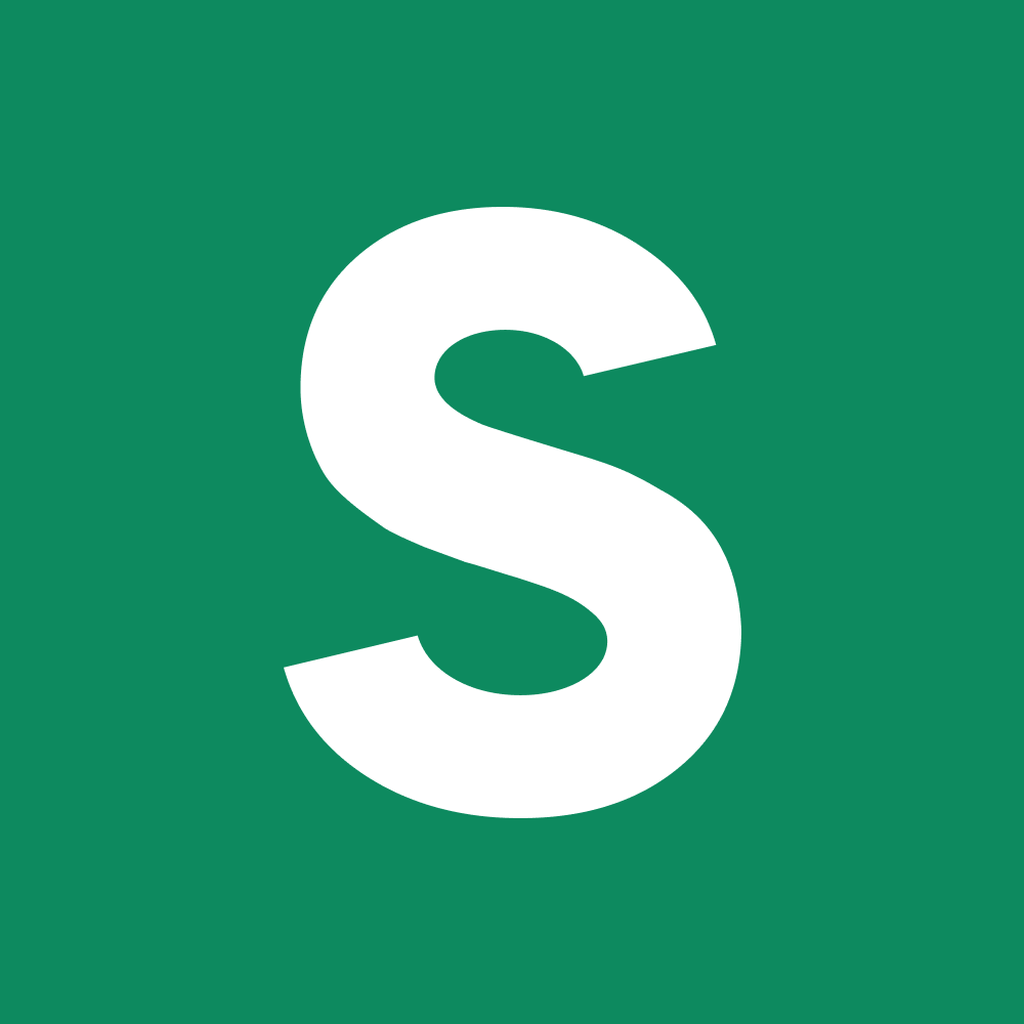
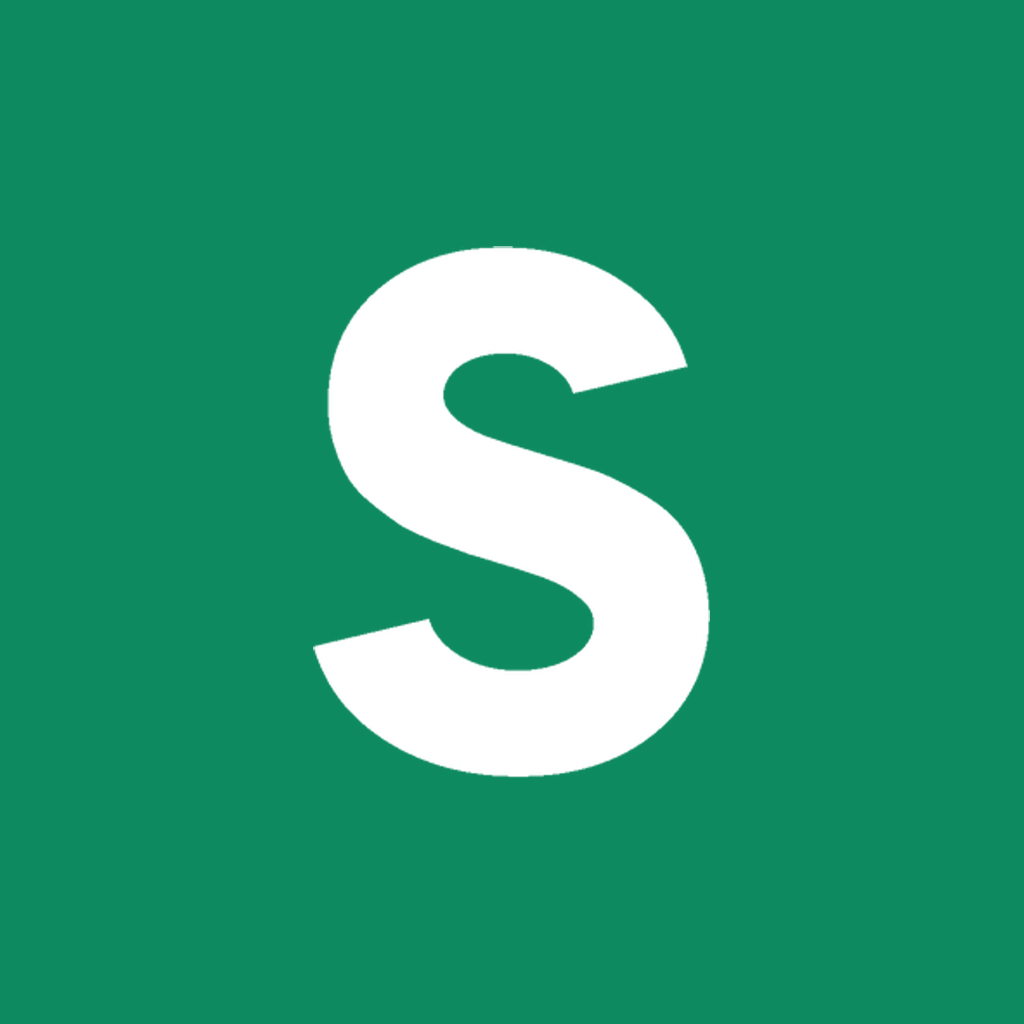
Mobile: a launch screen that says StayOnMap, not a blank white one
The splash was a blank near-white screen, and the wordmark that was
supposed to be on it rendered as a clipped strip below the first screen.
Both fixed; the whole launch is now one brand green.

Two bugs, found by capturing a cold start frame by frame on an emulator:

- The native splash paired brand-50 (#edfaf7 — 97% luminance, which is
  white on a phone) with a 100%-transparent image, so the longest part of
  a cold start was branded by nothing at all. It is brand-600 now.
- BrandSplash relied on StyleSheet.absoluteFillObject alone and, under
  Fabric, laid itself out in normal flow as a sibling of the navigator:
  the wordmark appeared as a strip clipped by the bottom edge, BELOW Get
  started, after Get started was already up. It now sets explicit
  useWindowDimensions() width/height as well.

The splash image stays transparent on purpose — Android 12+ masks it into
a circle, which would clip the wordmark — and omitting `image` is not the
same thing, since Android then falls back to the launcher icon.

Three surfaces are now the same brand-600 and must stay in sync:
app.config.js's splash backgroundColor, BrandSplash's root, and
GetStartedScreen's container. Any drift is a flash on every cold start.

Also:

- Logo gains `onDark` (Stay white, OnMap brand-100). Two tones, inverted,
  still text only — slate-800 on green is unreadable, and one flat white
  would collapse the wordmark into a single word.
[…]

Changed region(s): [[0.2812, 0.4375, 0.75, 0.8125], [0.2812, 0.1875, 0.7188, 0.5938], [0.4375, 0.4062, 0.5312, 0.4375]]

diff --git a/mobile/src/components/common/BrandSplash.js b/mobile/src/components/common/BrandSplash.js
@@ -1,0 +1,90 @@
+import { useEffect, useRef } from 'react'
+import { Animated, Easing, StyleSheet, useWindowDimensions } from 'react-native'
+import Logo from '@components/common/Logo'
+import { colors } from '@theme/colors'
+import { fontSizes } from '@theme/typography'
+
+// THE launch screen — wordmark only, no mark, per `.claude/ui-ux.md`'s
+// "StayOnMap Logo — Mandatory Rule".
+//
+// The user sees one continuous green launch. Technically there are three
+// surfaces and all of them are brand-600: expo-splash-screen paints it before
+// JS exists (with a deliberately transparent image — it cannot render text,
+// and Android 12+ would circle-clip a baked-in wordmark, see app.config.js),
+// this overlay paints it and animates the name in, and GetStartedScreen —
+// the screen underneath — is brand-600 too. Nothing white ever appears, and
+// the fade-out reads as the wordmark dissolving into the first real screen
+// rather than as a screen change.
+//
+// The three colours MUST stay in sync: app.config.js's splash
+// `backgroundColor`, `styles.root` below, and GetStartedScreen's container.
+// Any drift shows up as a flash on every cold start — which is exactly how
+// this screen shipped as a blank near-white void once before.
+//
+// Sizing is explicit (`useWindowDimensions`) rather than left to
+// `absoluteFillObject` alone: under Fabric this overlay laid itself out in
+// normal flow as a sibling of the navigator, so the wordmark rendered as a
+// clipped strip BELOW the app instead of over it.
+export default function BrandSplash({ onFinish }) {
+  const { width, height } = useWindowDimensions()
+  const wordmark = useRef(new Animated.Value(0)).current
+  const fade = useRef(new Animated.Value(1)).current
+
+  useEffect(() => {
+    const anim = Animated.sequence([
+      Animated.timing(wordmark, {
+        toValue: 1,
+        duration: 380,
+        easing: Easing.out(Easing.cubic),
+        useNativeDriver: true,
+      }),
+      Animated.delay(520),
+      Animated.timing(fade, {
+        toValue: 0,
+        duration: 320,
+        easing: Easing.in(Easing.quad),
+        useNativeDriver: true,
+      }),
+    ])
+    anim.start(({ finished }) => {
+      if (finished) onFinish?.()
+    })
+    // Unmounting mid-animation (fast refresh, process death) must not leave the
+    // overlay stuck at opacity 0 over a live app.
+    return () => anim.stop()
+  }, [wordmark, fade, onFinish])
+
+  return (
+    <Animated.View
+      style={[styles.root, { width, height, opacity: fade }]}
+      accessibilityRole="image"
+      accessibilityLabel="StayOnMap"
+    >
+      <Animated.View
+        style={{
+          opacity: wordmark,
+          transform: [
+            { translateY: wordmark.interpolate({ inputRange: [0, 1], outputRange: [12, 0] }) },
+          ],
+        }}
+      >
+        <Logo size={fontSizes.displayLarge} onDark />
+      </Animated.View>
+    </Animated.View>
+  )
+}
+
+const styles = StyleSheet.create({
+  root: {
+    position: 'absolute',
+    top: 0,
+    left: 0,
+    // Must match expo-splash-screen's backgroundColor in app.config.js AND
+    // GetStartedScreen's background — see the note above.
+    backgroundColor: colors.brand600,
+    alignItems: 'center',
+    justifyContent: 'center',
+    zIndex: 100,
+    elevation: 100,
+  },
+})

diff --git a/mobile/app.config.js b/mobile/app.config.js
@@ -31,6 +31,11 @@ export default {
       // (android/app/src/debug/AndroidManifest.xml) for the dev overlay, and
       // that variant is merged only into debug.
       blockedPermissions: ['android.permission.SYSTEM_ALERT_WINDOW'],
+      // The foreground S is 46% of the 108dp canvas, giving it a ~57% bounding
+      // diagonal — clear of the 66dp (61%) circle Android guarantees is visible
+      // on every launcher shape. It was 62% tall, i.e. TALLER than that
+      // guaranteed circle, so round-mask launchers cropped the terminals and
+      // the letter filled the badge edge to edge.
       adaptiveIcon: {
         backgroundColor: '#0d8a5f',
         foregroundImage: './assets/android-icon-foreground.png',
@@ -52,13 +57,36 @@ export default {
       [
         'expo-splash-screen',
         {
-          // A square, padded green "S" — NOT the old wide wordmark, which
-          // Android 12+ masks into a circle and clips at the sides. imageWidth
-          // was 500 (wider than the screen); 288 sizes the mark to sit inside
-          // the circular splash with room to spare.
+          // ./assets/splash-icon.png IS INTENTIONALLY 100% TRANSPARENT.
+          // Do not "fix" it by dropping a logo back in.
+          //
+          // There is exactly ONE launch screen and it is the wordmark —
+          // components/common/BrandSplash.js. It has to be JS, because this
+          // plugin can only place an image and Android 12+ masks that image
+          // into a 192dp circle: "StayOnMap" baked in here would be clipped to
+          // "ayOnMa", and shrunk to fit the circle it would be illegible. So
+          // the native splash paints a flat brand colour and nothing else, and
+          // the wordmark animates in the instant JS is up.
+          //
+          // Omitting `image` entirely does NOT give a blank splash — Android 12+
+          // then falls back to the launcher icon, putting the S back on screen.
+          // A transparent drawable is what actually suppresses it. imageWidth is
+          // vestigial with no pixels to size, and kept only so a future logo has
+          // a sane starting value.
+          //
+          // backgroundColor is brand-600, NOT brand-50. brand-50 is #edfaf7 —
+          // 97% luminance, indistinguishable from white on a phone — so with a
+          // transparent image the entire pre-JS launch read as a blank white
+          // screen, which is precisely what a user reported. brand-600 is
+          // unmistakably the brand from the first frame, and it is also
+          // GetStartedScreen's background, so the whole launch is one colour.
+          //
+          // It MUST stay in sync with BrandSplash.js's root background AND
+          // GetStartedScreen's container — three surfaces pretending to be one,
+          // and any drift shows up as a flash on every cold start.
           image: './assets/splash-icon.png',
           imageWidth: 288,
-          backgroundColor: '#edfaf7',
+          backgroundColor: '#0d8a5f',
         },
       ],
       [

diff --git a/mobile/App.js b/mobile/App.js
@@ -1,4 +1,4 @@
-import { useEffect } from 'react'
+import { useCallback, useEffect, useState } from 'react'
 import { AppState } from 'react-native'
 import { GestureHandlerRootView } from 'react-native-gesture-handler'
 import { SafeAreaProvider } from 'react-native-safe-area-context'
@@ -10,12 +10,21 @@ import { useFonts } from 'expo-font'
 import { queryClient } from '@lib/queryClient'
 import { getSocket } from '@lib/socket'
 import { AuthProvider } from '@features/auth/context/AuthContext'
+import BrandSplash from '@components/common/BrandSplash'
 import RootNavigator from '@navigation/RootNavigator'
 import { navigateToReference } from '@navigation/navigationRef'
 
 SplashScreen.preventAutoHideAsync().catch(() => {})
 
 export default function App() {
+  // The branded launch screen (the wordmark, on the same brand green the
+  // native splash just painted) that takes over the instant that splash lets
+  // go. It is an overlay, not a route: the navigator mounts and starts its own
+  // data fetching underneath while it plays, so the brand moment costs nothing
+  // in time-to-interactive.
+  const [brandSplashDone, setBrandSplashDone] = useState(false)
+  const finishBrandSplash = useCallback(() => setBrandSplashDone(true), [])
+
   // require() the 5 weight files directly — importing from the package index
   // made Metro bundle every weight in both families (~27 TTFs, several MB of
   // APK for fonts nothing renders). Keys must match theme/typography.js.
@@ -66,6 +75,9 @@ export default function App() {
           </AuthProvider>
         </QueryClientProvider>
       </SafeAreaProvider>
+      {/* Last child so it paints above the navigator without a Modal — a Modal
+          here would fight the status bar and the hardware back handler. */}
+      {!brandSplashDone && <BrandSplash onFinish={finishBrandSplash} />}
     </GestureHandlerRootView>
   )
 }

diff --git a/mobile/src/components/common/Logo.js b/mobile/src/components/common/Logo.js
@@ -6,10 +6,14 @@ import { fonts, fontSizes } from '@theme/typography'
 // logo rule). "Stay" in the default heading color, "OnMap" in brand color.
 // `floating` adds a soft text shadow for legibility when placed directly
 // over imagery (e.g. the map) instead of a solid background.
-export default function Logo({ size = fontSizes.lg, floating = false }) {
+// `onDark` keeps the two-tone structure on a brand-green surface (the launch
+// screen), where slate800/brand600 would be unreadable: white + brand100 is
+// the same relationship, inverted. It is a colour swap, not an exception to
+// the rule — still text only, still two tones, still no mark.
+export default function Logo({ size = fontSizes.lg, floating = false, onDark = false }) {
   return (
-    <Text style={[styles.text, floating && styles.floating, { fontSize: size }]}>
-      Stay<Text style={styles.accent}>OnMap</Text>
+    <Text style={[styles.text, onDark && styles.onDark, floating && styles.floating, { fontSize: size }]}>
+      Stay<Text style={onDark ? styles.accentOnDark : styles.accent}>OnMap</Text>
     </Text>
   )
 }
@@ -17,5 +21,7 @@ export default function Logo({ size = fontSizes.lg, floating = false }) {
 const styles = StyleSheet.create({
   text: { fontFamily: fonts.displayBold, color: colors.slate800 },
   accent: { color: colors.brand600 },
+  onDark: { color: colors.white },
+  accentOnDark: { color: colors.brand100 },
   floating: { textShadowColor: 'rgba(255,255,255,0.9)', textShadowRadius: 4, textShadowOffset: { width: 0, height: 1 } },
 })

diff --git a/mobile/src/navigation/RootNavigator.js b/mobile/src/navigation/RootNavigator.js
@@ -25,10 +25,15 @@ const linking = {
 export default function RootNavigator() {
   const { user, loading } = useAuth()
 
+  // Brand green, not white: this gate sits between BrandSplash and the first
+  // screen, and rehydrating a logged-in session costs a network round-trip to
+  // /auth/me. On a slow connection the splash finishes first, and a white
+  // panel here would be a flash of exactly the blank screen the launch
+  // sequence exists to avoid.
   if (loading) {
     return (
-      <View style={{ flex: 1, alignItems: 'center', justifyContent: 'center', backgroundColor: colors.white }}>
-        <ActivityIndicator color={colors.brand600} size="large" />
+      <View style={{ flex: 1, alignItems: 'center', justifyContent: 'center', backgroundColor: colors.brand600 }}>
+        <ActivityIndicator color={colors.white} size="large" />
       </View>
     )
   }

diff --git a/mobile/src/theme/typography.js b/mobile/src/theme/typography.js
@@ -15,4 +15,9 @@ export const fontSizes = {
   xl: 20,
   xxl: 24,
   display: 28,
+  // "Display L" in `.claude/ui-ux.md`'s size ladder — mobile's ladder stopped
+  // at 28 because nothing needed larger until the launch screen, where the
+  // wordmark carries the whole viewport on its own. Same 40 web uses, so the
+  // two ladders stay one ladder.
+  displayLarge: 40,
 }
